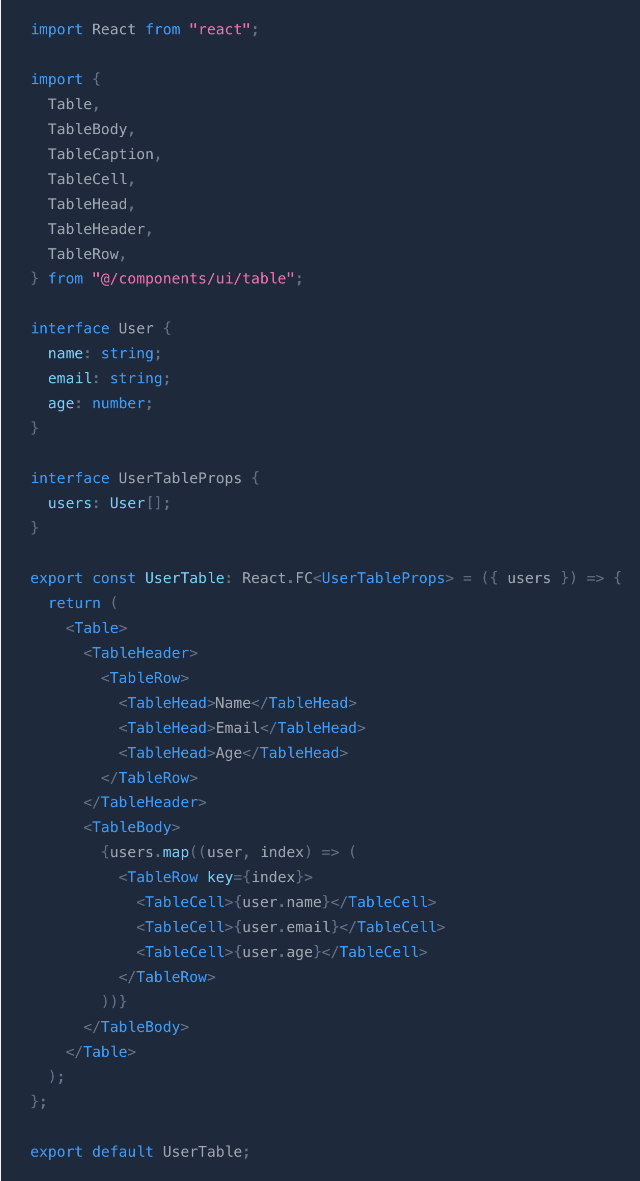
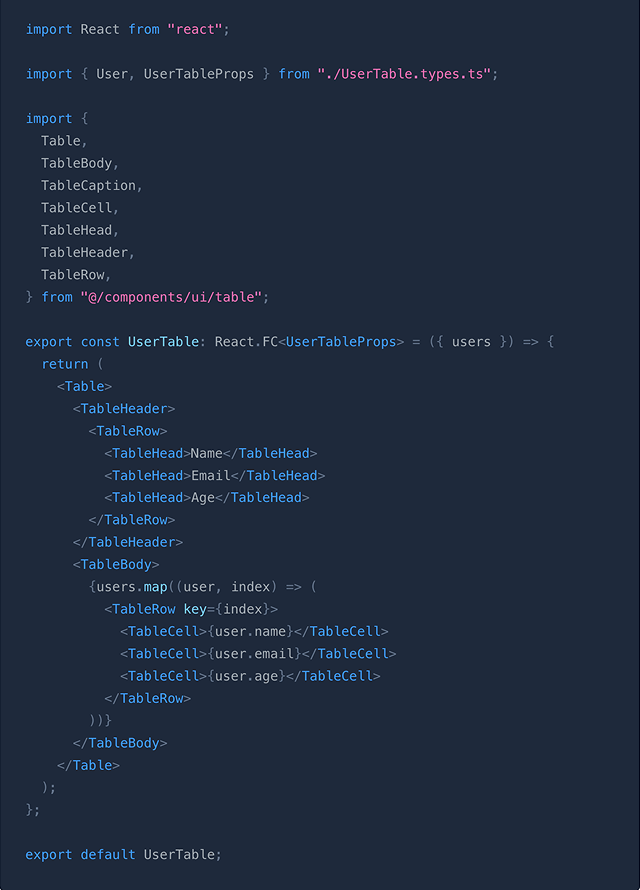
Blog entry fixes

diff --git a/packages/nuejs.org/blog/introducing-hyper/index.md b/packages/nuejs.org/blog/introducing-hyper/index.md
@@ -22,8 +22,14 @@ Today I'm releasing Hyper: a simple markup language for building user interfaces
 * Phase 4: [Scalability](#scalability)
 
 
+## Backstory
+Hyper is the new reactive library for Nue, eventually replacing the current [Nue JS](https://github.com/nuejs/nue/tree/master/packages/nuejs) package. The sole purpose of this library is to embrace **simplicity** and **minimalism**. It stands against the complexity and bloat that pervade the current frontend ecosystem. This is particularly evident in modern React components where everything — logic, structure, and styling are mixed together. Hyper, however, is what React 1.0 originally envisioned: just a _headless view layer_ focused on rendering, with clear separation from styling concerns.
+
+Let's study the difference.
+
+
 ## Phase 1: Simple components { #simple }
-We begin with the fundamentals: how to define basic UI elements. Below is the same `<table>` component implemented three ways:
+We begin with the fundamentals: how to define basic UI elements. Below is a simple `<table>` component defined in three ways:
 
 [.row]
   [! img/simple-table-1.png]
@@ -39,7 +45,7 @@ We begin with the fundamentals: how to define basic UI elements. Below is the sa
     href: simple-table.html#hyper
 
 
-1. **Modern React:** ShadCN <Table> with TypeScript. The extra boilerplate comes through idiomatic React patterns and the custom <Table> syntax. [Source](simple-table.html) • [Demo](/hyper/demo/react/simple-table.html)
+1. **Modern React:** ShadCN <Table> component and TypeScript. The extra boilerplate comes through React patterns and the custom <Table> syntax. [Source](simple-table.html) • [Demo](/hyper/demo/react/simple-table.html)
 
 2. **Old school React:** JSX with decoupled CSS. More straightforward markup but still needs JavaScript wiring and JSX transformation. [Source](simple-table.html#oldschool) • [Demo](/hyper/demo/react/simple-table-oldschool.html)
 
@@ -64,18 +70,18 @@ Next we examine how these approaches handle increasing complexity. Here's the sa
 
 Modern React ([Source](complex-table.html) • [Demo](/hyper/demo/react/complex-table.html))) extends the ShadCN table with features from Tanstack Table. The difference to Hyper ([Source](complex-table.html#hyper) • [Demo](/hyper/demo/table/complex-table.html))) becomes apparent:
 
-1. **Excessive boilerplate:** Through Radix UI, Tanstack Table, and TypeScript interfaces. This results in approximately 170 lines of code, versus 40 lines in Hyper. An 75% reduction in code and congitive load.
+1. **Excessive boilerplate:** Through Radix UI, Tanstack Table, and TypeScript interfaces. This results in approximately 170 lines of code, versus 40 lines in Hyper. An 75% increase in code and congitive load.
 
-1. **Abstraction layers:** Six layers of abstraction are in play: React, ShadCN, Radix, Tanstack, TypeScript, and Tailwind. The bundled JavaScript balloons to 91.3KB. The server situation is even more alarming: the Vite repository weighs a staggering 160MB. Hyper's table runs at 3.9KB (1.2KB + 2.7KB for hyper.js) — 23 times less bloat and complexity.
+1. **Abstraction layers:** Six layers of abstraction are in play: React, ShadCN, Radix, Tanstack, TypeScript, and Tailwind. The bundled JavaScript is **91.3KB** and the Vite repository weighs 160MB. Hyper's table runs at **3.9KB** (1.2KB + 2.7KB for hyper.js).
 
-1. **Huge bundler circus:** ShadCN table requires six different transpilers: ESBuild, JSX Transform, Rollup, TypeScript, Tailwind, and PostCSS. Only complex builders like Vite or Next.js can handle this ecosystem. AI models like Claude and ChatGPT struggle to generate previews with such large dependency trees. Hyper runs smoothly in the browser without compilation, or with just one compilation step for production-grade performance.
+1. **Multiple transpilers:** ShadCN table requires six different transpilers: ESBuild, JSX Transform, Rollup, TypeScript, Tailwind, and PostCSS. AI models like Claude and ChatGPT cannot generate preview for this large dependency tree. Hyper runs in the browser without compilation, or with single compilation step for a  production version.
 
 
 
 ## Phase 3: Reusable components { #reusable }
 Here's a simple dashboard assembled with Hyper:
 
-[image.larger]
+[image.large]
   large: img/minimalist-big.png
   small: img/minimalist.png
   href: /hyper/demo/dashboard/minimal.html
@@ -87,17 +93,19 @@ Now, the same dashboard with a "Ramsian" look:
   small: img/ramsian.png
   href: /hyper/demo/dashboard/ramsian.html
 
-This transformation required zero changes to component code. Just a [30-line CSS file](/hyper/demo/dashboard/ramsian.css) extending the base design system. This kind of design swaps are literally _impossible_ with modern React. Lets see why:
+This transformation required zero changes to component code. Just a [30-line CSS file](/hyper/demo/dashboard/ramsian.css) extending the base design system.
+
+Design system switching is impossible with modern React. Lets see why:
 
 
 ### The problem in React: hardcoded design
-Modern React components aren't reusable across projects with varying design requirements, because the design is hardcoded in the component. Even trivial typography changes (`h2` and `p`) thrust you into a coding labyrinthine. In ShadCN you need to modify [alert-dialog.tsx](//github.com/shadcn-ui/ui/blob/main/apps/v4/registry/new-york-v4/ui/alert-dialog.tsx), [alert.tsx](//github.com/shadcn-ui/ui/blob/main/apps/v4/registry/new-york-v4/ui/alert.tsx), [card.tsx](//github.com/shadcn-ui/ui/blob/main/apps/v4/registry/new-york-v4/ui/card.tsx), [dialog.tsx](//github.com/shadcn-ui/ui/blob/main/apps/v4/registry/new-york-v4/ui/dialog.tsx), [drawer.tsx](//github.com/shadcn-ui/ui/blob/main/apps/v4/registry/new-york-v4/ui/drawer.tsx), and [sheet.tsx](//github.com/shadcn-ui/ui/blob/main/apps/v4/registry/new-york-v4/ui/sheet.tsx), each requiring deep understanding of React idioms (`data-slot`, `{...props}`), utility functions (`cn()`, `clsx()`, `twMerge()`) that merge and generate classes, and a circus of primitives (`<AlertDialogPrimitive.Title>`, `<DrawerPrimitive.Description>`) and how these constructs ultimately map to actual CSS:
+Modern React components aren't reusable across projects with varying design requirements because the design is hardcoded in the component. Even trivial typography changes (`h2` and `p`) require edits to multiple files. In ShadCN, you need to modify [alert-dialog.tsx](//github.com/shadcn-ui/ui/blob/main/apps/v4/registry/new-york-v4/ui/alert-dialog.tsx), [alert.tsx](//github.com/shadcn-ui/ui/blob/main/apps/v4/registry/new-york-v4/ui/alert.tsx), [card.tsx](//github.com/shadcn-ui/ui/blob/main/apps/v4/registry/new-york-v4/ui/card.tsx), [dialog.tsx](//github.com/shadcn-ui/ui/blob/main/apps/v4/registry/new-york-v4/ui/dialog.tsx), [drawer.tsx](//github.com/shadcn-ui/ui/blob/main/apps/v4/registry/new-york-v4/ui/drawer.tsx), and [sheet.tsx](//github.com/shadcn-ui/ui/blob/main/apps/v4/registry/new-york-v4/ui/sheet.tsx). Each file requires understanding of several React idioms (`data-slot`, `{...props}`), utility functions (`cn()`, `clsx()`, `twMerge()`), and primitives like `<AlertDialogPrimitive.Title>` and `<DrawerPrimitive.Description>` until these constructs ultimately map to CSS. Here are the title and description elements in the ShadCN .tsx files:
 
 [image]
   large: img/shadcn-typo-big.png
   small: img/shadcn-typo.png
 
-This design hardcoding creates significant scalability problems. Look at ShadCN: their "New York" theme essentially duplicates their default theme, resulting in 40,000+ lines of [additional TSX code][new_york] and creating a maintenance nightmare. Something that would have been trivially solved with CSS cascade.
+This hardcoding creates a scalability issue. For example, ShadCN's "New York" theme duplicates their default theme, resulting in 40,000+ lines of [additional TSX code][new_york]. This is a problem that would have been easily solved with CSS inheritance and cascade.
 
 
 ### Hyper's solution: decoupled design
@@ -120,9 +128,9 @@ By contrast, Hyper colocates your typography concerns into a single CSS file, ac
 }
 ```
 
-This solves all the major problems in modern React:
+This solves three major issues in modern React:
 
-1. **Universally reusable components** accross projects and context
+1. **Reusable components** accross projects and contexts
 1. **Central design system** easily maintainable from the same place
 1. **Zero boilerplate** due to stirct separation of concerns
 
@@ -132,7 +140,7 @@ These simple units are the secret to truly scalable apps:
 
 
 ## Phase 4: Scalability { #scalability }
-Here's how simplicity scales: a full-scale app lighter than a single React button:
+Here's how simplicity scales: a full-scale [app](//mpa.nuejs.org/app/) lighter than a single React button:
 
 [bunny-video]
   videoId: 39b76cca-e55b-4e9b-8583-b053f9dbd55d
@@ -140,7 +148,7 @@ Here's how simplicity scales: a full-scale app lighter than a single React butto
   width: 704
   height: 407
 
-This [app](//mpa.nuejs.org/app/) showcases how simple building blocks demolish React. While React adds layers of abstraction that grow exponentially with scale, Hyper establishes an entirely different paradigm, centered around simplicity:
+Hyper establishes an entirely different paradigm, centered around simplicity:
 
 [image]
   small: /img/react-button-vs-nue-spa.png
@@ -150,7 +158,7 @@ This [app](//mpa.nuejs.org/app/) showcases how simple building blocks demolish R
 
 [.note]
   ### Note
-  The above app is still written with "Nue JS", which Hyper is to replace. When converted, the app becomes even smaller with virtually zero boilerplate.
+  The above app is still written with Nue JS, but when converted to Hyper, the app becomes even smaller with virtually zero boilerplate.
 
 - - -
 
@@ -161,11 +169,11 @@ Hyper reveals the immense power in web standards, but we're just getting started
 ### Phase 5: Full-stack applications
 A demonstration to what Hyper and Nue are capable of:
 
-* Simple cross-component communication
 * Intuitive routing and navigation system
+* Simple cross-component communication
 * Backend server & database integrations
-* Local development & production edge
 * Three swappable design systems
+* Deployement to the cloud (runtime agnostic)
 
 Estimate: 3 months.
 
@@ -177,15 +185,9 @@ A way for you and AI's to generate UIs with minimal effort:
 * Higher-level compositions
 * Built-in accessibility and responsivity
 * Self-documenting API and patterns
-* Base design system
+* Base design system (headless, grid only)
 
 Estimate: 4-5 months.
-
-
-[image]
-  large: img/branding-big.png
-  small: img/branding.png
-  width: 400
 
 
 ## Get started with Hyper
@@ -216,7 +218,14 @@ Check examples, API docs, and language syntax from [Hyper documentation](/hyper/
 
 
 ### What is Nue?
-Nue is the "framework" (think Next.js + Astro, but simpler) and Hyper is the "language" (think React, but simpler). Both are developed under the same monorepo.
+Nue is the "framework" (think Next.js + Astro, but simpler) and Hyper is the "language" (think React, but simpler). Both are developed under the same [monorepo](https://github.com/nuejs/nue/tree/master/packages/). Here's how the product hierarchy will look like.
+
+[image]
+  large: img/branding-big.png
+  caption: The shield icon represents the close connection to web standards
+  small: img/branding.png
+  width: 400
+
 
 
 ### Isn't this just another framework?
@@ -238,10 +247,10 @@ Standards are forever.
 The idea of generative HTML assembly unveils once Hyper, and the core UI primitives are ready. After that, both you and AI models can rapidly generate user interfaces with simple, minimal syntax. No unnecessary junk in your way.
 
 
-### Can Hyper actually challenge React?
+### Can Hyper actually challenge the status quo?
 Absolutely. To succeed, we need to address two things:
 
-1. **Developer perception**: React developers view layers of abstraction as essential. As Hyper demonstrates how professional UIs can be generated without them, this perception will shift.
+1. **Developer perception**: Frontend developers view layers of abstraction as essential. As Hyper demonstrates how professional UIs can be generated without them, this perception will shift.
 
 2. **Finish the product**: Several critical pieces remain in development, particularly the generative approach and design systems.
 

diff --git a/packages/nuejs.org/blog/introducing-hyper/complex-table.md b/packages/nuejs.org/blog/introducing-hyper/complex-table.md
@@ -11,7 +11,7 @@ A sortable/filterable table component, wrapped inside a card component. Implemen
 ## With modern React
 Excessive boilerplate through Tanstack Table, ShadCN, and TypeScript interfaces
 
-``` jsx numbered
+``` jsx
 import * as React from "react"
 
 import {
@@ -48,13 +48,8 @@ import {
   CardContent,
 } from "@/components/ui/card"
 
-type Person = {
-  id: string
-  name: string
-  email: string
-  age: number
-  total: number
-}
+import { Person, DataTableProps } from "./DataTable.types.ts";
+
 
 // Create a reusable sortable header component
 const SortableHeader = ({ column, title, align = "left" }) => (
@@ -92,10 +87,6 @@ const columns: ColumnDef<Person>[] = [
     },
   },
 ]
-
-interface DataTableProps {
-  data: Person[]
-}
 
 export default function DataTable({ data }: DataTableProps) {
   const [sorting, setSorting] = React.useState<SortingState>([])
@@ -185,13 +176,9 @@ export default function DataTable({ data }: DataTableProps) {
 }
 ```
 
-
-## With vanilla TSX
-This is a theoretical example with vanilla TSX and external CSS. Vanilla CSS is no longer "idiomatic" React, so this is just for reference:
+Here is the extra TypeScript needed (not included in the comparison images):
 
 ```
-import React, { useState, useMemo } from "react";
-
 type Person = {
   id: string;
   name: string;
@@ -201,8 +188,18 @@ type Person = {
 };
 
 interface DataTableProps {
-  data: Person[];
+  data: Person[]
 }
+```
+
+
+## With vanilla TSX { #oldschool }
+This is an oldschool example using external CSS, which is no longer the "idiomatic" way to build React compomnents:
+
+```
+import React, { useState, useMemo } from "react";
+
+import { Person, DataTableProps } from "./DataTable.types.ts";
 
 export default function DataTable({ data }: DataTableProps) {
   const [sortField, setSortField] = useState<keyof Person | null>(null);

diff --git a/packages/nuejs.org/blog/introducing-hyper/simple-table.md b/packages/nuejs.org/blog/introducing-hyper/simple-table.md
@@ -10,8 +10,11 @@ unlisted: true
 ## With modern React
 Modern React uses TypeScript and component libraries like ShadCN or Chakra UI. Here's ShadCN <Table> in action:
 
+
 ``` jsx
 import React from "react";
+
+import { User, UserTableProps } from "./UserTable.types.ts";
 
 import {
   Table,
@@ -22,16 +25,6 @@ import {
   TableHeader,
   TableRow,
 } from "@/components/ui/table";
-
-interface User {
-  name: string;
-  email: string;
-  age: number;
-}
-
-interface UserTableProps {
-  users: User[];
-}
 
 export const UserTable: React.FC<UserTableProps> = ({ users }) => {
   return (
@@ -59,8 +52,23 @@ export const UserTable: React.FC<UserTableProps> = ({ users }) => {
 export default UserTable;
 ```
 
+Here is the extra TypeScript needed (not included in the comparison images):
 
-## Old school React
+```
+// UserTable.types.ts
+export interface User {
+  name: string;
+  email: string;
+  age: number;
+}
+
+export interface UserTableProps {
+  users: User[];
+}
+```
+
+
+## Old school React { #oldschool }
 In the early days of React (circa 2013-2016), styling followed standard web development patterns with completely separate concerns. CSS files were loaded directly in HTML, not into the React file. A simple table component would be implemented like this:
 
 ``` jsx
